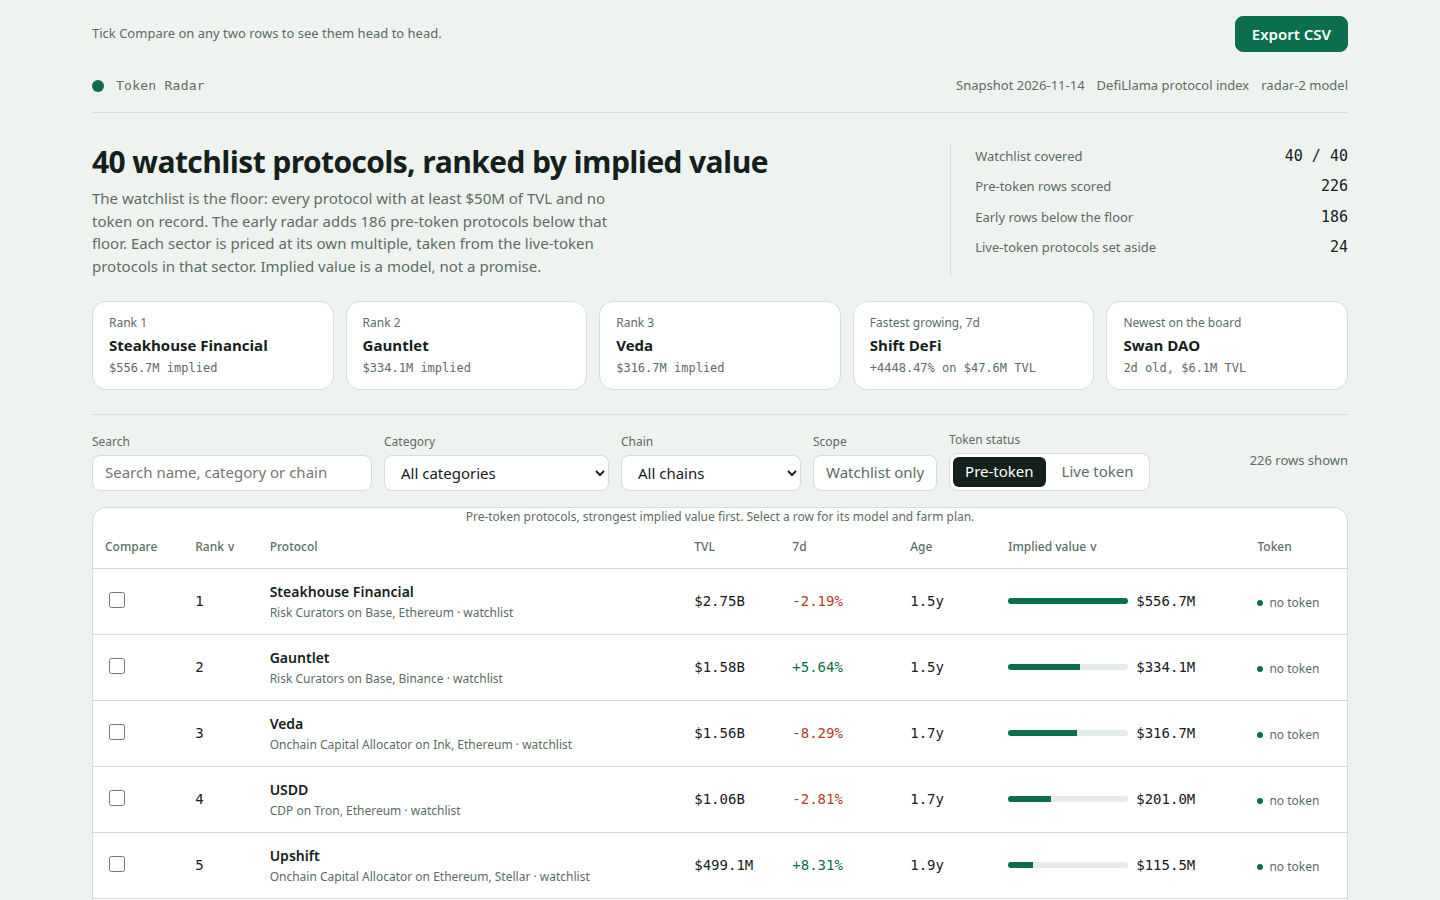
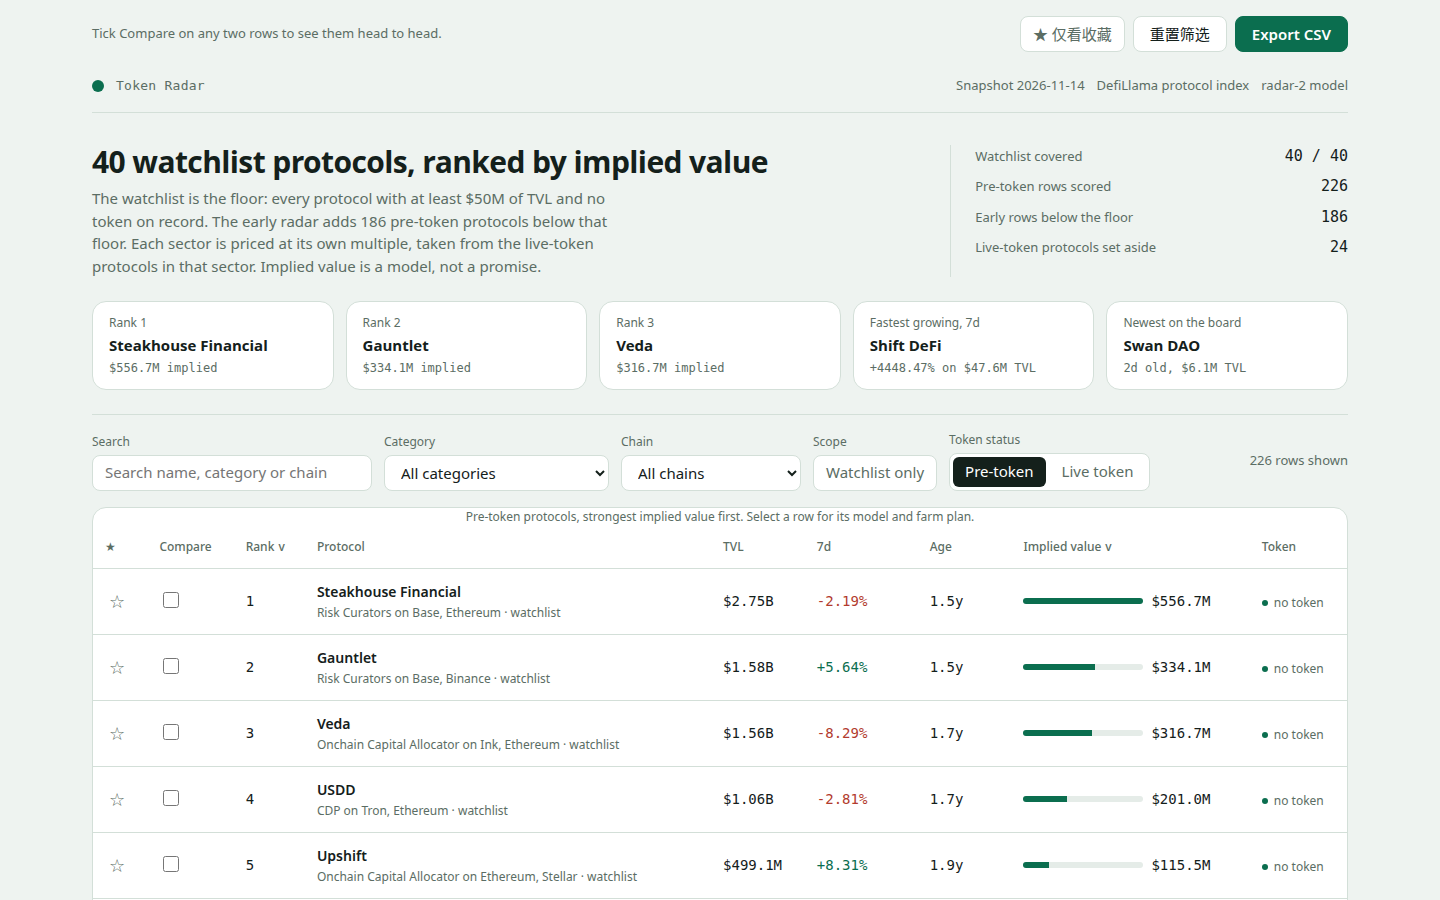
token-radar-01: add starred protocols and farm timeline

diff --git a/dashboard/app.js b/dashboard/app.js
@@ -13,7 +13,34 @@
   var DATA = window.RADAR;
   if (!DATA) return;
   var app = document.getElementById('board');
-  var state = { q: '', category: 'all', chain: 'all', watchlistOnly: false, tab: 'pre-token', sort: 'implied', dir: -1, selected: null, compare: new Set(), compareNote: '' };
+  var state = { q: '', category: 'all', chain: 'all', watchlistOnly: false, starredOnly: false, tab: 'pre-token', sort: 'implied', dir: -1, selected: null, compare: new Set(), compareNote: '', starred: new Set() };
+
+  // Starred protocols: the reader's own shortlist, kept in localStorage under
+  // token-radar-starred as an array of slugs. It is separate from the board's
+  // watchlist, which comes from the snapshot, and it survives reloads.
+  var STAR_KEY = 'token-radar-starred';
+  function loadStarred() {
+    try {
+      var raw = window.localStorage.getItem(STAR_KEY);
+      if (!raw) return new Set();
+      var parsed = JSON.parse(raw);
+      if (!Array.isArray(parsed)) return new Set();
+      return new Set(parsed.filter(function (s) { return typeof s === 'string'; }));
+    } catch (e) { return new Set(); }
+  }
+  function saveStarred() {
+    try { window.localStorage.setItem(STAR_KEY, JSON.stringify(Array.from(state.starred))); }
+    catch (e) { /* private mode: stars last for this visit only */ }
+  }
+  function isStarred(slug) { return state.starred.has(slug); }
+  function toggleStarred(slug) {
+    if (state.starred.has(slug)) state.starred.delete(slug);
+    else state.starred.add(slug);
+    saveStarred();
+    render();
+  }
+  function starredCount() { return state.starred.size; }
+  state.starred = loadStarred();
 
   var usd = new Intl.NumberFormat('en-US', { style: 'currency', currency: 'USD', maximumFractionDigits: 0 });
   function fmtUsd(n) {
@@ -246,6 +273,30 @@
     setTimeout(function () { URL.revokeObjectURL(url); }, 1000);
   }
 
+  // Reset every filter at once: search, category, chain, watchlist-only,
+  // starred-only and the comparison picks, then back to the pre-token tab.
+  function resetFilters() {
+    state.q = '';
+    state.category = 'all';
+    state.chain = 'all';
+    state.watchlistOnly = false;
+    state.starredOnly = false;
+    state.tab = 'pre-token';
+    state.compare.clear();
+    state.compareNote = '';
+    writeHash();
+    render();
+  }
+  // The starred toolbar lives in index.html outside the re-rendered shell,
+  // so its pressed state and count label are synced here on every render.
+  function syncStarToolbar() {
+    var toggle = document.getElementById('starred-only');
+    if (toggle) {
+      toggle.setAttribute('aria-pressed', state.starredOnly ? 'true' : 'false');
+      toggle.textContent = '★ 仅看收藏' + (starredCount() ? ' (' + starredCount() + ')' : '');
+    }
+  }
+
   function readHash() {
     var hash = window.location.hash.replace(/^#/, '');
     if (!hash) return;
@@ -275,6 +326,7 @@
       if (state.category !== 'all' && r.category !== state.category) return false;
       if (state.chain !== 'all' && (!r.chains || r.chains.indexOf(state.chain) < 0)) return false;
       if (state.watchlistOnly && !isWatchlist(r)) return false;
+      if (state.starredOnly && !isStarred(r.slug)) return false;
       if (!q) return true;
       var hay = [r.name, r.slug, r.category, (r.chains || []).join(' ')].join(' ').toLowerCase();
       return hay.indexOf(q) >= 0;
@@ -385,7 +437,7 @@
       return el('div', { class: 'panel' }, el('div', { class: 'empty' },
         el('h2', { text: 'No protocol matches that filter' }),
         el('p', { text: 'Clear the search or pick another category to see the board again.' }),
-        el('button', { class: 'button primary', type: 'button', text: 'Clear filters', onclick: function () { state.q = ''; state.category = 'all'; state.chain = 'all'; state.watchlistOnly = false; writeHash(); render(); } })
+        el('button', { class: 'button primary', type: 'button', text: 'Clear filters', onclick: resetFilters })
       ));
     }
     var max = list[0].implied_value_usd || 1;
@@ -399,6 +451,14 @@
         onclick: function () { openDetail(r.slug); },
         onkeydown: function (e) { if (e.key === 'Enter' || e.key === ' ') { e.preventDefault(); openDetail(r.slug); } }
       },
+        el('td', null, el('button', {
+          type: 'button', class: 'star-btn' + (isStarred(r.slug) ? ' starred' : ''),
+          'aria-label': (isStarred(r.slug) ? 'Unstar ' : 'Star ') + r.name,
+          'aria-pressed': isStarred(r.slug) ? 'true' : 'false',
+          title: isStarred(r.slug) ? 'Remove from starred' : 'Star this protocol',
+          text: isStarred(r.slug) ? '★' : '☆',
+          onclick: function (e) { e.stopPropagation(); toggleStarred(r.slug); }
+        })),
         el('td', null, el('input', {
           type: 'checkbox', class: 'compare-box', 'aria-label': 'Compare ' + r.name,
           checked: state.compare.has(r.slug) ? 'checked' : null,
@@ -427,6 +487,7 @@
         el('table', null,
           el('caption', { class: 'sub', text: 'Pre-token protocols, strongest implied value first. Select a row for its model and farm plan.' }),
           el('thead', null, el('tr', null,
+            el('th', { scope: 'col', 'aria-label': 'Starred', text: '★' }),
             el('th', { scope: 'col', text: 'Compare' }),
             sortHeader('implied', 'Rank'),
             sortHeader('name', 'Protocol'),
@@ -492,6 +553,39 @@
     );
   }
 
+  // Farm plan as a timeline: each step gets a number and a phase tag.
+  // Eight steps split 2 / 3 / 3 into prepare, execute and hold-and-claim;
+  // shorter plans split into thirds so the three phases still appear.
+  function phaseForStep(index, total) {
+    var first, second;
+    if (total >= 8) { first = 2; second = 5; }
+    else {
+      first = Math.max(1, Math.ceil(total / 3));
+      second = Math.max(first + 1, Math.ceil((total * 2) / 3));
+    }
+    if (index < first) return { label: '准备', cls: 'phase-prep' };
+    if (index < second) return { label: '执行', cls: 'phase-exec' };
+    return { label: '持有与领奖', cls: 'phase-hold' };
+  }
+  function farmTimeline(steps) {
+    var items = steps.map(function (s, i) {
+      var at = s.indexOf(' Cost: ');
+      var action = at >= 0 ? s.slice(0, at) : s;
+      var tail = at >= 0 ? s.slice(at + 1) : '';
+      var phase = phaseForStep(i, steps.length);
+      var last = i === steps.length - 1;
+      return el('li', { class: 'timeline-step' + (last ? ' timeline-last' : '') },
+        el('span', { class: 'timeline-dot', 'aria-hidden': 'true', text: String(i + 1) }),
+        el('div', { class: 'timeline-body' },
+          el('span', { class: 'phase-tag ' + phase.cls, text: phase.label }),
+          el('b', { text: action }),
+          tail ? el('span', { class: 'cost', text: tail }) : null
+        )
+      );
+    });
+    return el('ol', { class: 'timeline' }, items);
+  }
+
   var dialog = el('dialog', { class: 'detail', id: 'detail', 'aria-labelledby': 'detail-title' });
   dialog.addEventListener('close', function () { state.selected = null; writeHash(); });
 
@@ -526,12 +620,7 @@
     ));
     dialog.appendChild(el('section', { class: 'detail-section' },
       el('h3', { text: 'Farm plan' }),
-      el('ol', { class: 'steps' }, steps.map(function (s) {
-        var at = s.indexOf(' Cost: ');
-        var action = at >= 0 ? s.slice(0, at) : s;
-        var tail = at >= 0 ? s.slice(at + 1) : '';
-        return el('li', null, el('b', { text: action }), el('span', { class: 'cost', text: tail }));
-      }))
+      farmTimeline(steps)
     ));
     if (typeof dialog.showModal === 'function') {
       if (!dialog.open) dialog.showModal();
@@ -552,6 +641,7 @@
     if (state.tab === 'pre-token') shell.appendChild(modelPanel());
     app.appendChild(shell);
     app.setAttribute('aria-busy', 'false');
+    syncStarToolbar();
     if (!dialog.isConnected) app.appendChild(dialog);
     if (state.selected) openDetail(state.selected);
   }
@@ -560,6 +650,14 @@
   render();
   var exportBtn = document.getElementById('export-csv');
   if (exportBtn) exportBtn.addEventListener('click', exportCsv);
+  var starredBtn = document.getElementById('starred-only');
+  if (starredBtn) starredBtn.addEventListener('click', function () {
+    state.starredOnly = !state.starredOnly;
+    writeHash();
+    render();
+  });
+  var resetBtn = document.getElementById('reset-filters');
+  if (resetBtn) resetBtn.addEventListener('click', resetFilters);
   window.addEventListener('keydown', function (e) {
     if (e.key === 'Escape' && dialog.open) dialog.close();
   });

diff --git a/dashboard/app.css b/dashboard/app.css
@@ -180,6 +180,39 @@ tbody tr[data-selected="true"] { background: color-mix(in srgb, var(--accent) 10
 .steps b { display: block; font-weight: 500; }
 .cost { color: var(--muted); font-size: 12px; font-family: var(--font-num); }
 
+/* Starred protocols: per-row star button and the starred-only toolbar toggle. */
+.tools-actions { display: flex; align-items: center; gap: var(--step-2); }
+.star-toggle[aria-pressed="true"] { background: var(--accent-soft); border-color: var(--accent); color: var(--accent); font-weight: 600; }
+.reset-btn { min-height: 36px; }
+.star-btn {
+  border: 0; background: none; padding: 2px 4px; font-size: 18px; line-height: 1;
+  color: var(--muted);
+}
+.star-btn:hover { color: var(--accent); transform: scale(1.15); }
+.star-btn.starred { color: #d9930d; }
+
+/* Farm timeline: numbered dots on a vertical rail, one phase tag per step. */
+.timeline { margin: 0; padding: 0; list-style: none; display: grid; gap: var(--step-3); }
+.timeline-step { position: relative; display: flex; gap: var(--step-3); padding-left: 44px; min-height: 40px; }
+.timeline-step::before {
+  content: ""; position: absolute; left: 19px; top: 40px; bottom: -12px; width: 2px;
+  background: var(--border);
+}
+.timeline-step.timeline-last::before { display: none; }
+.timeline-dot {
+  position: absolute; left: 0; top: 0; width: 40px; height: 40px; border-radius: 50%;
+  display: flex; align-items: center; justify-content: center;
+  background: var(--accent); color: var(--surface); font-family: var(--font-num); font-size: 14px; font-weight: 600;
+}
+.timeline-body { display: grid; gap: 2px; align-content: start; padding-top: 2px; }
+.timeline-body b { font-weight: 500; }
+.phase-tag {
+  justify-self: start; padding: 1px 8px; border-radius: 999px; font-size: 11px; font-weight: 600;
+}
+.phase-prep { background: #e8eefc; color: #2f4fb3; }
+.phase-exec { background: var(--accent-soft); color: var(--accent); }
+.phase-hold { background: #fdf3dd; color: #8a6100; }
+
 @media (max-width: 1100px) {
   .highlights { grid-template-columns: repeat(3, minmax(0, 1fr)); }
 }

diff --git a/dashboard/index.html b/dashboard/index.html
@@ -10,7 +10,11 @@
 <a class="skip" href="#board">Skip to the board</a>
 <div class="page-tools">
   <span class="tools-note">Tick Compare on any two rows to see them head to head.</span>
-  <button id="export-csv" class="export-btn" type="button">Export CSV</button>
+  <div class="tools-actions">
+    <button id="starred-only" class="toggle star-toggle" type="button" aria-pressed="false">★ 仅看收藏</button>
+    <button id="reset-filters" class="button reset-btn" type="button">重置筛选</button>
+    <button id="export-csv" class="export-btn" type="button">Export CSV</button>
+  </div>
 </div>
 <section id="compare-panel" class="compare-panel" hidden aria-label="Protocol comparison"></section>
 <main id="board" tabindex="-1" aria-busy="true"></main>
